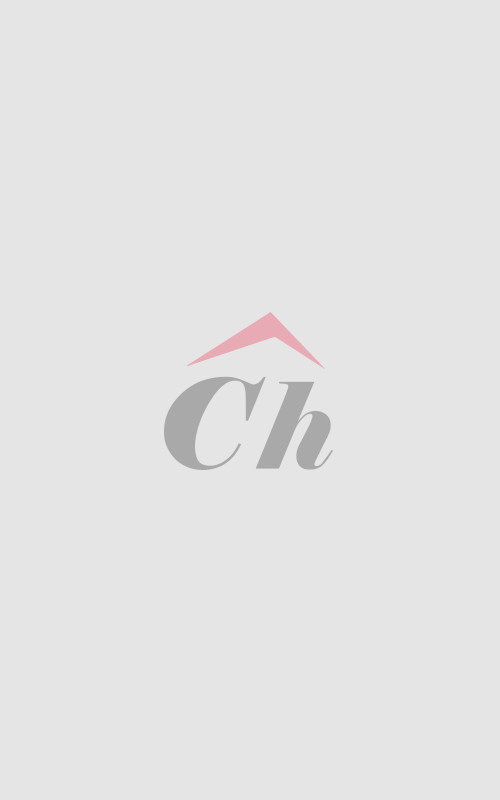
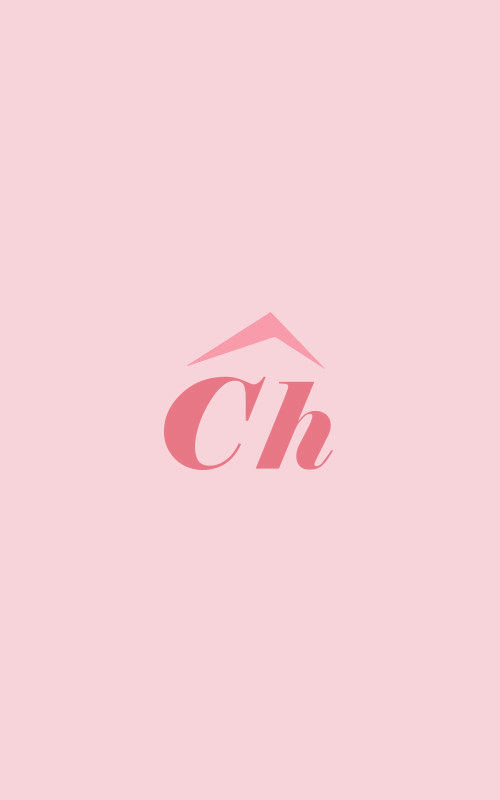
feat: admin categories allow discount for its products

Changed region(s): [[0.33, 0.4688, 0.54, 0.5938], [0.51, 0.4688, 0.66, 0.5938]]

diff --git a/app/webroot/css/custom.css b/app/webroot/css/custom.css
@@ -601,7 +601,7 @@ body.top-fixed .shop-options {
   background-image: url(../images/chat-icon.svg);
 }
 
-footer { background: lightpink; overflow: hidden; padding: 5rem 0 0; }
+footer { background: #f7d4da; overflow: hidden; padding: 5rem 0 0; }
 footer > .wrapper { 
   padding: 0.75rem; 
 }
@@ -1049,7 +1049,7 @@ footer ul li { margin-bottom: 5px;  max-width: 15rem; }
 	justify-content: flex-start;
 	align-items: flex-start;
   padding-top: 0.5rem;
-  min-height: 40px;
+  min-height: 20px;
 }
 
 .product-badge {

diff --git a/app/webroot/css/chatelet.css b/app/webroot/css/chatelet.css
@@ -891,6 +891,10 @@ body > section {
 	line-height: 1.25;
 }
 
+.bg-pink {
+	background-color: #f7d4da;
+}
+
 .bg-light {
   background-color: #f8f8f8;
 }
